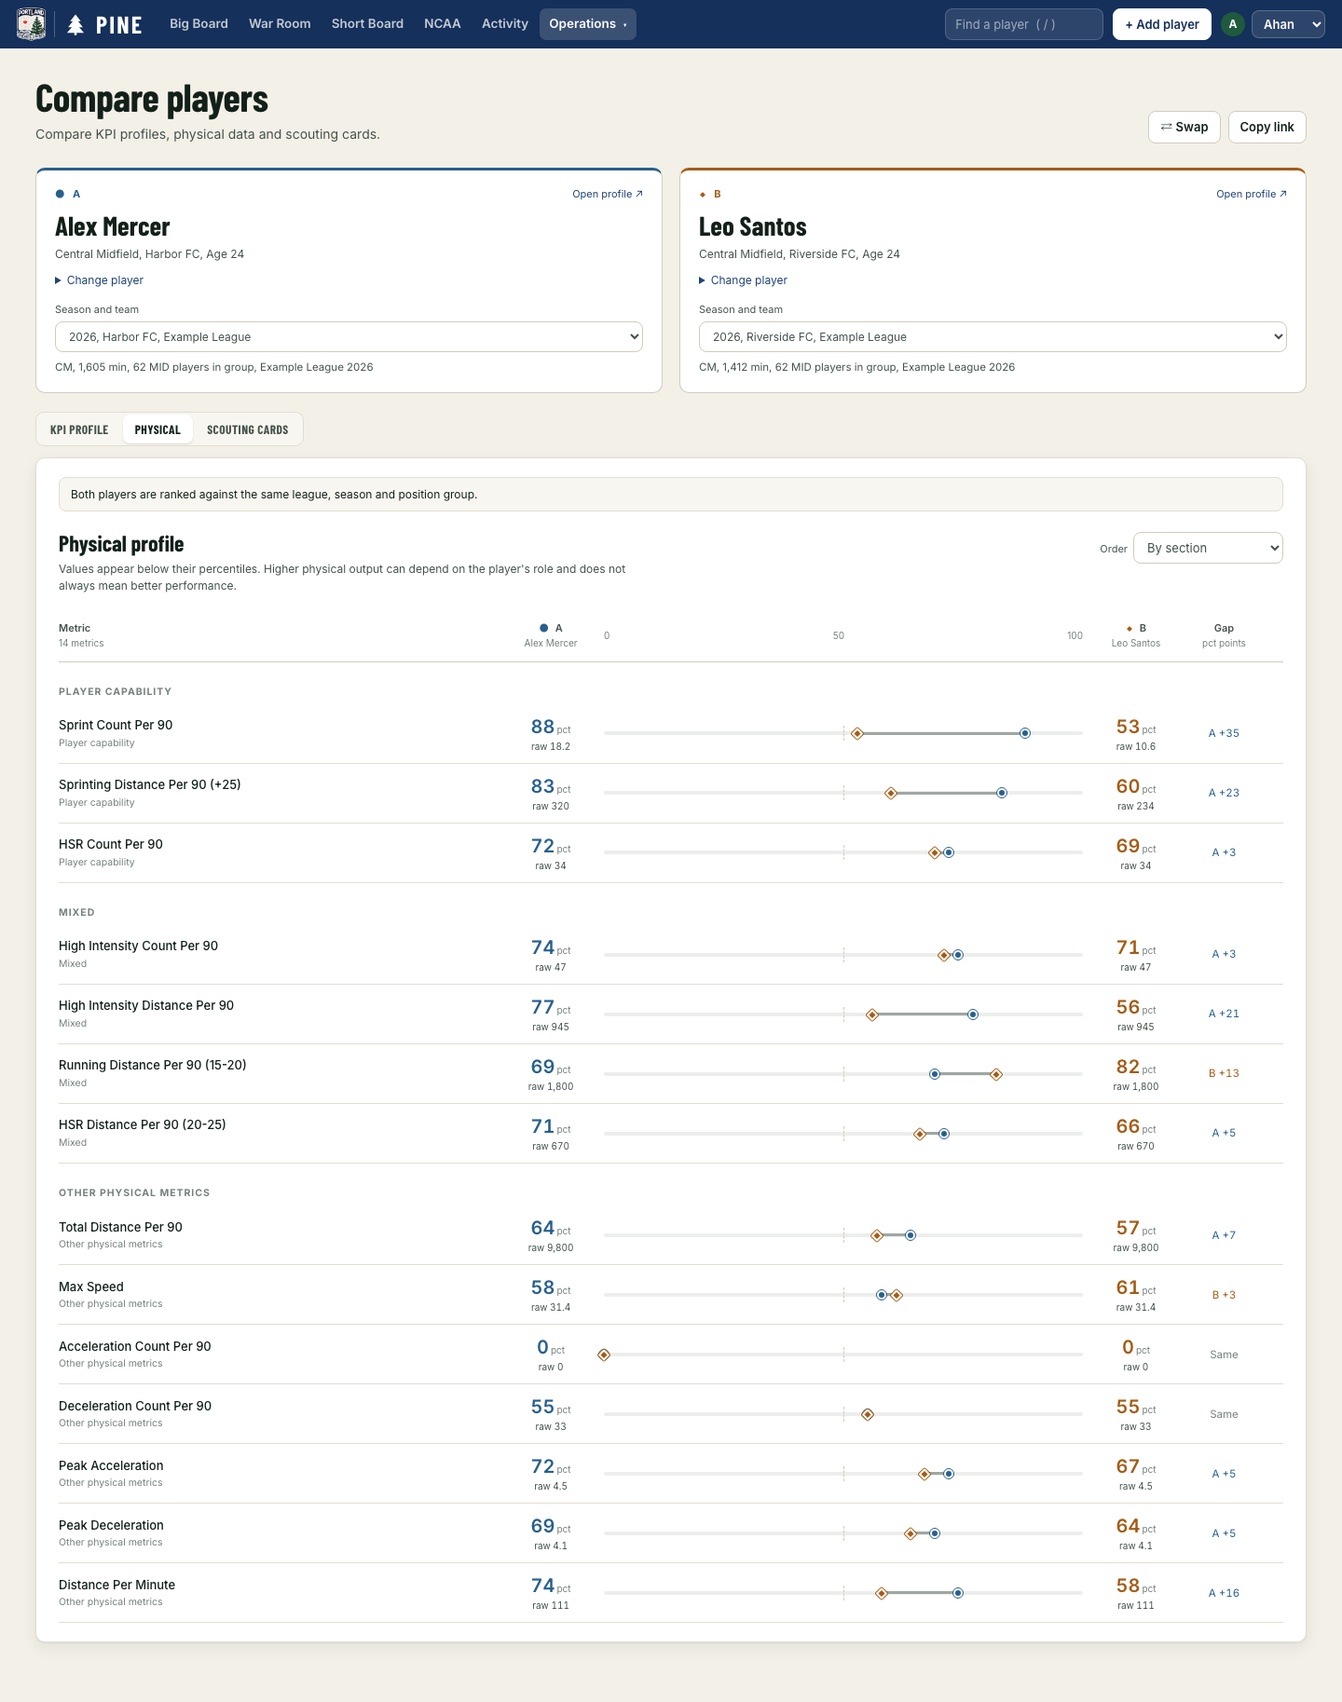
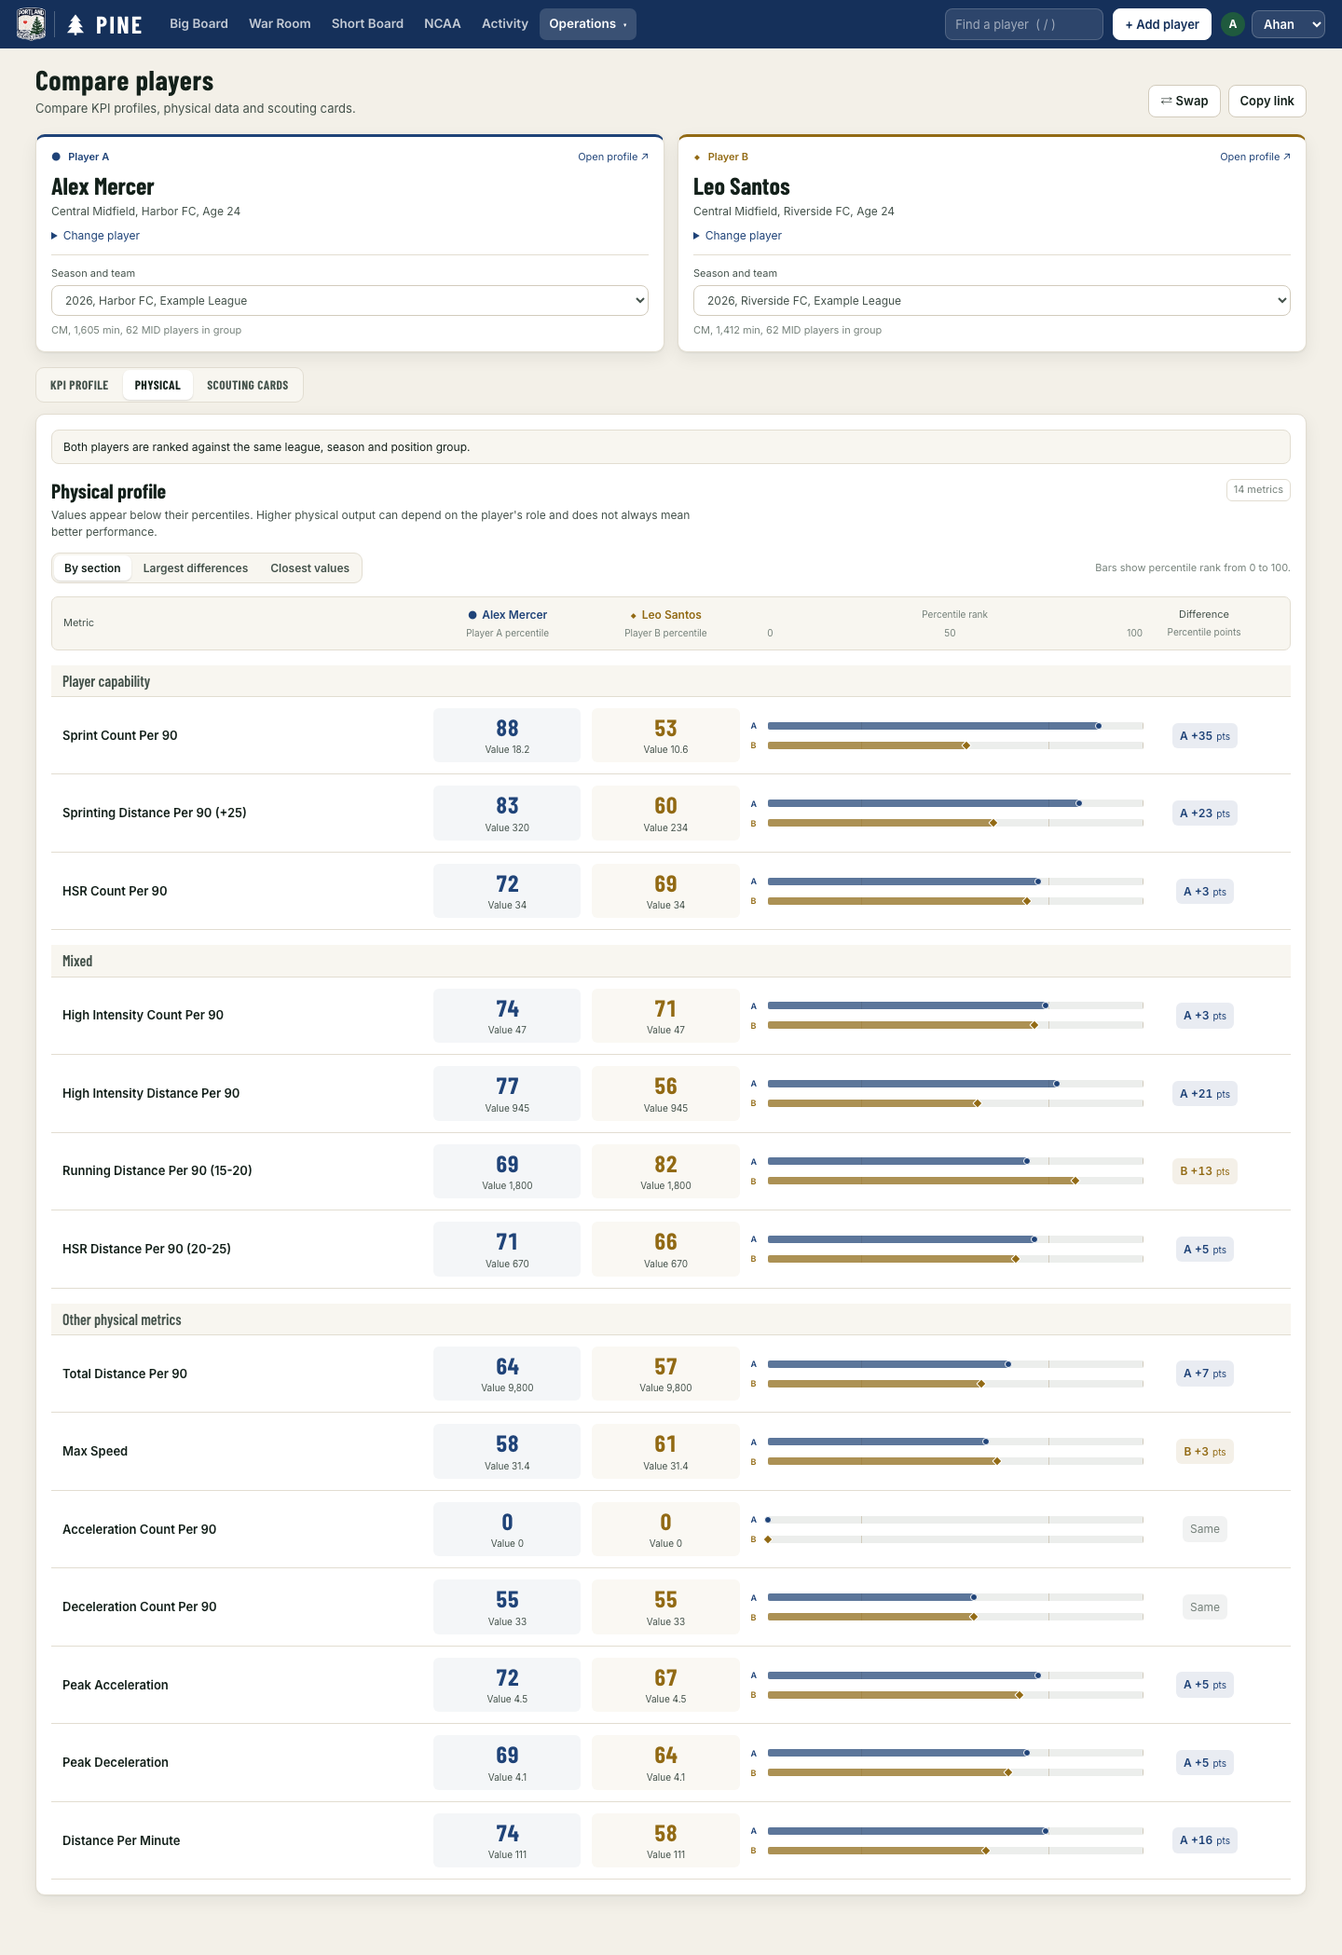
Clarify player comparisons and match Pine styles

diff --git a/public/styles.css b/public/styles.css
@@ -1169,21 +1169,21 @@ details[open] > summary .kpi-chev { transform: rotate(45deg); }
   .al-reading { font-size: 13px; }
 }
 
-/* Two-player comparisons. Player identity uses both color and marker shape. */
-.cmp-page { --cmp-a: #28608D; --cmp-b: #A45C16; max-width: 1400px; }
-@media (prefers-color-scheme: dark) { .cmp-page { --cmp-a: #80B9E8; --cmp-b: #F2B669; } }
+/* Two-player comparisons use Pine's panels, tabs and controls. Color and shape identify each player. */
+.cmp-page { --cmp-a: var(--accent); --cmp-b: color-mix(in srgb, var(--hold) 70%, var(--ink)); max-width: 1400px; }
+@media (prefers-color-scheme: dark) { .cmp-page { --cmp-b: var(--hold); } }
 .cmp-0 { --cmp-color: var(--cmp-a); }
 .cmp-1 { --cmp-color: var(--cmp-b); }
-.cmp-heading { display: flex; justify-content: space-between; align-items: end; gap: 16px; margin: 12px 0 26px; }
-.cmp-heading h1 { font: 700 42px/1 var(--disp); letter-spacing: -.01em; }
-.cmp-heading p { color: var(--ink-2); margin: 10px 0 0; }
-.cmp-players { display: grid; grid-template-columns: repeat(2, minmax(0, 1fr)); gap: 18px; }
-.cmp-player { position: relative; border: 1px solid var(--line-2); border-top: 3px solid var(--cmp-color); border-radius: 10px; padding: 18px 20px; background: var(--surface); min-width: 0; }
-.cmp-player-top { display: flex; justify-content: space-between; align-items: center; gap: 8px; margin-bottom: 9px; font-size: 11px; }
-.cmp-letter { font-weight: 700; letter-spacing: .08em; color: var(--cmp-color); }
-.cmp-symbol { color: var(--cmp-color); margin-right: 4px; }
-.cmp-player h2 { font: 700 29px/1.1 var(--disp); overflow-wrap: anywhere; }
-.cmp-player > p { color: var(--ink-2); margin: 6px 0 10px; font-size: 12px; }
+.cmp-heading { justify-content: space-between; margin-bottom: 18px; }
+.cmp-heading p { color: var(--ink-2); margin: 7px 0 0; font-size: 13px; }
+.cmp-players { display: grid; grid-template-columns: repeat(2, minmax(0, 1fr)); gap: 14px; }
+.cmp-player { position: relative; border-top: 3px solid var(--cmp-color); padding: 14px 16px; min-width: 0; }
+.cmp-player + .cmp-player { margin-top: 0; }
+.cmp-player-top { display: flex; justify-content: space-between; align-items: center; gap: 8px; margin-bottom: 8px; font-size: 11px; }
+.cmp-letter { font-weight: 600; color: var(--cmp-color); }
+.cmp-symbol { color: var(--cmp-color); margin-right: 5px; }
+.cmp-player h2 { font: 700 26px/1.1 var(--disp); overflow-wrap: anywhere; }
+.cmp-player > p { color: var(--ink-2); margin: 5px 0 8px; font-size: 12px; }
 .cmp-search > summary { cursor: pointer; color: var(--accent); font-size: 12px; width: fit-content; }
 .cmp-search[open] { padding-top: 4px; }
 .cmp-search input { width: 100%; margin-top: 10px; }
@@ -1192,58 +1192,75 @@ details[open] > summary .kpi-chev { transform: rotate(45deg); }
 .cmp-results button:last-child { border-bottom: 0; }
 .cmp-results button:hover, .cmp-results button:focus { background: var(--surface-2); }
 .cmp-results small { display: block; color: var(--muted); margin-top: 1px; }
-.cmp-context { margin-top: 16px; display: grid; grid-template-columns: minmax(0, 1fr) minmax(0, 1fr); gap: 8px 10px; }
+.cmp-context { margin-top: 12px; padding-top: 12px; border-top: 1px solid var(--line); display: grid; grid-template-columns: minmax(0, 1fr) minmax(0, 1fr); gap: 8px 10px; }
 .cmp-context:empty { display: none; }
 .cmp-context label { min-width: 0; font-size: 11px; color: var(--ink-2); }
 .cmp-context label > span { display: block; margin: 0 0 4px; }
 .cmp-context select { width: 100%; font-size: 12px; }
-.cmp-context p { grid-column: 1 / -1; font-size: 11.5px; margin: 0; color: var(--ink-2); }
+.cmp-context > label:only-of-type { grid-column: 1 / -1; }
+.cmp-context p { grid-column: 1 / -1; font-size: 11px; margin: 0; color: var(--muted); }
 .cmp-context .cmp-warning { color: var(--ink); border-left: 2px solid var(--hold); padding-left: 8px; }
-.cmp-nav { display: flex; align-items: center; justify-content: space-between; gap: 10px; margin: 20px 0 12px; }
-.cmp-body { padding: 20px 24px; }
-.cmp-benchmark { margin-top: 0; font-size: 12px; }
-.cmp-table-toolbar { display: flex; align-items: start; justify-content: space-between; gap: 14px; margin: 22px 0; }
-.cmp-table-toolbar h2 { font: 700 24px/1 var(--disp); }
-.cmp-table-toolbar p { color: var(--ink-2); font-size: 12px; max-width: 650px; margin: 7px 0 0; }
-.cmp-sort { flex: none; font-size: 11px; color: var(--ink-2); }
-.cmp-sort span { margin-right: 6px; }
-.cmp-row { display: grid; grid-template-columns: minmax(180px, 1.1fr) 86px minmax(140px, 1.2fr) 86px 75px 12px; gap: 14px; align-items: center; }
-.cmp-columns { position: sticky; top: 64px; z-index: 3; background: var(--surface); border-bottom: 1px solid var(--line-2); padding: 8px 0 12px; color: var(--ink-2); font-size: 11px; font-weight: 600; }
-.cmp-columns small { display: block; font-size: 10px; font-weight: 400; color: var(--muted); }
-.cmp-columns > span:nth-child(2), .cmp-columns > span:nth-child(4), .cmp-columns > span:nth-child(5) { text-align: center; }
-.cmp-axis { display: flex; justify-content: space-between; font-size: 10px; font-weight: 400; color: var(--muted); }
-.cmp-section { font-size: 10.5px; text-transform: uppercase; letter-spacing: .09em; color: var(--muted); margin: 24px 0 6px; }
+.cmp-nav { display: flex; align-items: center; justify-content: space-between; gap: 10px; margin: 16px 0 12px; }
+.cmp-body { padding: 16px; }
+.cmp-benchmark { margin: 0 0 16px; font-size: 12px; }
+.cmp-table-toolbar { display: flex; align-items: start; justify-content: space-between; gap: 14px; margin: 0 0 14px; }
+.cmp-table-toolbar h2 { font: 700 22px/1.1 var(--disp); }
+.cmp-table-toolbar p { color: var(--ink-2); font-size: 12px; max-width: 690px; margin: 6px 0 0; }
+.cmp-count { flex: none; border: 1px solid var(--line); border-radius: 6px; color: var(--muted); font-size: 11px; padding: 3px 7px; }
+.cmp-table-controls { display: flex; align-items: center; justify-content: space-between; gap: 12px; flex-wrap: wrap; margin-bottom: 14px; }
+.cmp-sort button { font-size: 12px; }
+.cmp-sort button:disabled { opacity: .45; cursor: default; }
+.cmp-help { color: var(--muted); font-size: 11px; }
+.cmp-row { display: grid; grid-template-columns: minmax(165px, 1.1fr) minmax(90px, .45fr) minmax(90px, .45fr) minmax(180px, 1.2fr) 108px 14px; gap: 12px; align-items: center; }
+.cmp-columns { position: sticky; top: var(--cmp-top, 54px); z-index: 3; background: var(--surface-2); border: 1px solid var(--line); border-radius: 7px; padding: 10px 12px; font-size: 11px; color: var(--ink-2); }
+.cmp-columns small { display: block; font-size: 10px; font-weight: 400; color: var(--muted); margin-top: 3px; }
+.cmp-column-player { min-width: 0; text-align: center; color: var(--cmp-color); }
+.cmp-column-player b { font-size: 12px; font-weight: 600; overflow-wrap: anywhere; }
+.cmp-column-gap { text-align: center; }
+.cmp-axis { font-size: 10px; color: var(--muted); margin-left: 18px; }
+.cmp-axis > span:first-child { display: block; text-align: center; margin-bottom: 5px; }
+.cmp-ticks { display: flex; justify-content: space-between; }
+.cmp-section { font: 600 16px/1.2 var(--disp); color: var(--ink-2); background: var(--surface-2); padding: 7px 12px; margin: 16px 0 0; border-bottom: 1px solid var(--line); }
 .cmp-item { border-bottom: 1px solid var(--line); }
-.cmp-item > summary, .cmp-item.cmp-row { padding: 12px 0; }
+.cmp-item > summary, .cmp-item.cmp-row { padding: 12px; }
 .cmp-item > summary { list-style: none; cursor: pointer; }
 .cmp-item > summary::-webkit-details-marker { display: none; }
-.cmp-item > summary:hover { background: var(--surface-2); }
+.cmp-item > summary:hover, .cmp-item[open] > summary { background: var(--surface-2); }
 .cmp-metric { min-width: 0; font-size: 13px; }
-.cmp-metric b { font-weight: 500; }
+.cmp-metric b { font-weight: 600; }
 .cmp-metric small { display: block; color: var(--muted); font-size: 10.5px; line-height: 1.4; margin-top: 3px; }
-.cmp-value { display: block; font-size: 20px; color: var(--cmp-color); font-weight: 600; line-height: 1.2; font-variant-numeric: tabular-nums; text-align: center; }
-.cmp-value small { display: block; font-size: 10px; color: var(--ink-2); font-weight: 400; margin-top: 3px; }
-.cmp-value > .cmp-pct-unit { display: inline; color: var(--muted); margin-left: 2px; }
-.cmp-na { font-size: 10px; color: var(--muted); font-weight: 400; }
-.cmp-track { display: block; position: relative; height: 4px; background: var(--none-bg); border-radius: 3px; margin: 14px 0; }
-.cmp-mid { position: absolute; left: 50%; top: -6px; height: 16px; border-left: 1px dashed var(--line-2); }
-.cmp-bridge { position: absolute; height: 3px; background: var(--muted); opacity: .65; top: .5px; }
-.cmp-dot { position: absolute; width: 10px; height: 10px; top: -3px; background: var(--cmp-color); border: 2px solid var(--surface); border-radius: 50%; transform: translateX(-50%); outline: 1px solid var(--cmp-color); z-index: 2; }
-.cmp-dot.cmp-1 { border-radius: 1px; transform: translateX(-50%) rotate(45deg); top: -2px; width: 9px; height: 9px; }
-.cmp-range { position: absolute; top: -8px; height: 20px; background: var(--cmp-color); opacity: .12; border-radius: 4px; }
-.cmp-gap { font-size: 11.5px; color: var(--cmp-color, var(--muted)); font-variant-numeric: tabular-nums; text-align: center; white-space: nowrap; }
-.cmp-chevron { color: var(--muted); font-size: 14px; }
+.cmp-number { min-width: 0; border-radius: 6px; padding: 7px 4px; background: color-mix(in srgb, var(--cmp-color) 5%, var(--surface)); }
+.cmp-number-label { display: none; }
+.cmp-value { display: block; font: 700 25px/1.1 var(--disp); color: var(--cmp-color); font-variant-numeric: tabular-nums; text-align: center; }
+.cmp-value small { display: block; font: 400 10px/1.4 var(--body); color: var(--ink-2); margin-top: 3px; }
+.cmp-na { font: 400 11px var(--body); color: var(--muted); }
+.cmp-chart { display: grid; gap: 8px; padding: 4px 0; min-width: 0; }
+.cmp-bar { display: flex; gap: 8px; align-items: center; min-width: 0; }
+.cmp-bar-missing .cmp-track { background: none; border-bottom: 1px dashed var(--line-2); }
+.cmp-bar-empty { display: block; font: 400 9px/1 var(--body); color: var(--muted); text-align: center; transform: translateY(-2px); }
+.cmp-bar-label { width: 10px; flex: none; color: var(--cmp-color); font-size: 9px; font-weight: 600; }
+.cmp-track { display: block; position: relative; height: 8px; flex: 1; border-radius: 2px; background: repeating-linear-gradient(to right, transparent 0, transparent calc(25% - 1px), var(--line-2) calc(25% - 1px), var(--line-2) 25%), var(--none-bg); }
+.cmp-fill { position: absolute; left: 0; top: 0; height: 100%; border-radius: 2px; background: var(--cmp-color); opacity: .7; }
+.cmp-dot { position: absolute; width: 8px; height: 8px; top: 0; background: var(--cmp-color); border: 1px solid var(--surface); border-radius: 50%; transform: translateX(-50%); z-index: 2; }
+.cmp-dot.cmp-1 { border-radius: 1px; transform: translateX(-50%) rotate(45deg); }
+.cmp-range { position: absolute; top: -3px; height: 14px; border: 1px solid var(--cmp-color); background: color-mix(in srgb, var(--cmp-color) 15%, transparent); border-radius: 3px; }
+.cmp-gap { justify-self: center; display: inline-flex; align-items: baseline; gap: 4px; border-radius: 6px; padding: 5px 8px; color: var(--cmp-color, var(--muted)); background: color-mix(in srgb, var(--cmp-color, var(--muted)) 10%, var(--surface)); font-size: 12px; font-variant-numeric: tabular-nums; white-space: nowrap; }
+.cmp-gap b { font-weight: 600; }
+.cmp-gap small { font-size: 10px; }
+.cmp-chevron { color: var(--muted); font-size: 14px; text-align: center; }
 .cmp-item[open] > summary .cmp-chevron { transform: rotate(180deg); }
-.cmp-detail { padding: 12px 14px; border: 1px solid var(--line); border-radius: 8px; background: var(--surface-2); margin-bottom: 12px; }
-.cmp-detail > p { margin: 0 0 10px; font-size: 12px; }
-.cmp-detail .cmp-dot { border-color: var(--surface-2); }
+.cmp-detail { padding: 12px 0 0; background: var(--surface-2); border-top: 1px solid var(--line); margin-bottom: 12px; }
+.cmp-detail > p { margin: 0 12px 10px; font-size: 12px; }
 .cmp-detail .cmp-metric b { font-size: 12px; }
-.cmp-empty { text-align: center; padding: 45px 10px; color: var(--ink-2); }
-.cmp-empty > span { font-size: 36px; color: var(--muted); display: block; margin: 0 0 18px; }
-.cmp-empty h2 { font: 600 26px/1.2 var(--disp); color: var(--ink); }
+.cmp-detail .cmp-value { font-size: 22px; }
+.cmp-detail .cmp-row:last-child { border-bottom: 0; }
+.cmp-empty { text-align: center; padding: 36px 10px; color: var(--ink-2); }
+.cmp-empty > span { font-size: 30px; color: var(--muted); display: block; margin: 0 0 18px; }
+.cmp-empty h2 { font: 600 24px/1.2 var(--disp); color: var(--ink); }
 .cmp-empty p { margin-bottom: 0; }
-.cmp-card-viewer { --cmp-zoom: 100%; border-top: 1px solid var(--line-2); margin-top: 26px; }
-.cmp-card-pair { display: grid; grid-template-columns: repeat(2, minmax(0, 1fr)); gap: 18px; }
+.cmp-card-viewer { --cmp-zoom: 100%; border-top: 1px solid var(--line-2); padding-top: 18px; margin-top: 22px; }
+.cmp-body > .cmp-card-viewer:first-child { margin-top: 0; padding-top: 0; border-top: 0; }
+.cmp-card-pair { display: grid; grid-template-columns: repeat(2, minmax(0, 1fr)); gap: 14px; }
 .cmp-card-caption { display: flex; align-items: center; gap: 5px; margin-bottom: 10px; font-size: 12px; }
 .cmp-card-caption a { margin-left: auto; font-size: 11px; }
 .cmp-card-scroll { overflow: auto; height: 400px; border: 1px solid var(--line-2); border-radius: 8px; background: var(--surface-2); }
@@ -1254,50 +1271,49 @@ details[open] > summary .kpi-chev { transform: rotate(45deg); }
 .cmp-card-flip button[aria-pressed=true] { border-color: var(--cmp-color); color: var(--cmp-color); }
 .cmp-flip-mode .cmp-card-pair { grid-template-columns: minmax(0, 1fr); }
 .cmp-flip-mode .cmp-card-scroll { height: 650px; }
-@media (max-width: 850px) {
-  .cmp-row { grid-template-columns: minmax(130px, 1fr) 60px minmax(80px, 1fr) 60px 62px 10px; gap: 10px; }
+@media (max-width: 1000px) {
+  .cmp-row { grid-template-columns: minmax(135px, 1fr) 68px 68px minmax(115px, 1fr) 86px 12px; gap: 10px; }
   .cmp-context { grid-template-columns: minmax(0, 1fr); }
-  .cmp-body { padding: 16px; }
+  .cmp-body { padding: 14px; }
 }
-@media (max-width: 600px) {
+@media (max-width: 700px) {
   .cmp-page { padding: 16px 12px 48px; }
-  .cmp-heading { align-items: start; margin: 4px 0 18px; flex-wrap: wrap; }
-  .cmp-heading h1 { font-size: 36px; }
+  .cmp-heading { align-items: start; gap: 12px; }
   .cmp-heading p { font-size: 12px; }
-  .cmp-players { gap: 8px; }
-  .cmp-player { padding: 12px 10px; }
-  .cmp-player h2 { font-size: 23px; }
-  .cmp-player-top { font-size: 10px; gap: 2px; }
-  .cmp-player > p { font-size: 11px; min-height: 32px; }
+  .cmp-players { grid-template-columns: minmax(0, 1fr); gap: 10px; }
+  .cmp-player { padding: 12px; }
+  .cmp-player h2 { font-size: 24px; }
+  .cmp-context { grid-template-columns: minmax(0, 1fr) minmax(0, 1fr); margin-top: 10px; padding-top: 10px; }
   .cmp-context p { font-size: 10.5px; }
-  .cmp-nav { align-items: start; flex-direction: column; margin-top: 16px; }
+  .cmp-nav { align-items: start; flex-direction: column; margin-top: 14px; }
   .cmp-nav .an-tabs { width: 100%; display: flex; }
   .cmp-nav .an-tabs button { flex: 1; padding: 7px 4px; font-size: 12px; }
-  .cmp-body { padding: 12px 10px; }
-  .cmp-table-toolbar { flex-wrap: wrap; margin: 18px 0 12px; }
-  .cmp-table-toolbar h2 { font-size: 23px; }
-  .cmp-sort { width: 100%; display: flex; align-items: center; justify-content: space-between; }
-  .cmp-sort select { max-width: 70%; }
-  .cmp-row { grid-template-columns: 48px minmax(40px, 1fr) 48px 57px 10px; gap: 8px; }
-  .cmp-metric, .cmp-columns > span:first-child { grid-column: 1 / -1; }
-  .cmp-columns { position: static; row-gap: 6px; }
-  .cmp-columns > span:first-child small { display: inline; margin-left: 5px; }
-  .cmp-number { min-width: 0; }
-  .cmp-metric b { font-size: 12px; }
-  .cmp-value { font-size: 18px; }
-  .cmp-value small { font-size: 9px; }
-  .cmp-gap { font-size: 10.5px; }
-  .cmp-detail { padding: 10px 8px; }
-  .cmp-detail .cmp-row { grid-template-columns: 42px minmax(30px, 1fr) 42px 52px 8px; gap: 6px; }
-  .cmp-section { margin-top: 18px; }
+  .cmp-body { padding: 12px; }
+  .cmp-table-toolbar { gap: 8px; }
+  .cmp-table-toolbar h2 { font-size: 22px; }
+  .cmp-table-controls { gap: 8px; }
+  .cmp-sort { width: 100%; display: flex; }
+  .cmp-sort button { flex: 1; padding: 7px 4px; font-size: 11px; }
+  .cmp-row { position: relative; grid-template-columns: repeat(2, minmax(0, 1fr)); gap: 10px; }
+  .cmp-columns { position: sticky; row-gap: 8px; padding: 10px; }
+  .cmp-columns > span:first-child, .cmp-column-gap, .cmp-columns > span:last-child { display: none; }
+  .cmp-column-player { grid-row: 1; }
+  .cmp-axis { grid-column: 1 / -1; margin-left: 18px; }
+  .cmp-axis > span:first-child { display: none; }
+  .cmp-item > summary, .cmp-item.cmp-row { padding: 14px 8px; }
+  .cmp-metric { grid-column: 1 / -1; padding-right: 98px; min-height: 26px; }
+  .cmp-number.cmp-0 { grid-column: 1; grid-row: 2; }
+  .cmp-number.cmp-1 { grid-column: 2; grid-row: 2; }
+  .cmp-number-label { display: block; font-size: 10px; text-align: center; color: var(--cmp-color); margin-bottom: 3px; }
+  .cmp-chart { grid-column: 1 / -1; grid-row: 3; }
+  .cmp-gap { position: absolute; right: 24px; top: 13px; font-size: 11px; padding: 4px 6px; }
+  .cmp-chevron { position: absolute; right: 5px; top: 14px; }
+  .cmp-section { margin-top: 14px; }
   .cmp-card-pair { gap: 8px; }
   .cmp-card-caption { flex-wrap: wrap; font-size: 11px; }
   .cmp-card-caption a { width: 100%; margin-left: 0; }
   .cmp-card-scroll { height: 230px; }
   .cmp-flip-mode .cmp-card-scroll { height: min(440px, 70vw); }
 }
-.cmp-column-name { overflow: hidden; text-overflow: ellipsis; white-space: nowrap; max-width: 100%; }
 
-.cmp-context > label:only-of-type { grid-column: 1 / -1; }
-
-.cmp-body > .cmp-card-viewer:first-child { margin-top: 0; border-top: 0; }
+@media (max-width: 450px) { .cmp-context { grid-template-columns: minmax(0, 1fr); } }

diff --git a/README.md b/README.md
@@ -398,8 +398,9 @@ syncs leave the signing status alone.
   Every version is kept and any signed-in staff member can open it. One card per player can be in progress, and at most 30 are
   requested across PINE per 24 hours.
 - **Compare players** (`#/compare`): open from Operations or **Compare with…** on a player profile.
-  Compare KPI profiles, physical data and saved scouting cards on the same rows and a shared scale from 0 to 100.
-  Sort by section, largest differences or closest values, and open KPI categories to see their metrics.
+  Compare KPI profiles, physical data and saved scouting cards with adjacent player values, paired bars on a shared scale from 0 to 100,
+  and badges showing the percentile difference. Use the buttons to sort by section, largest differences or closest values,
+  and open KPI categories to see their metrics. Player names stay visible as you scroll, and phone layouts keep player controls on separate rows.
   You can choose each player's season, position, physical data and saved card separately, and share your selections by copying the link.
   Percentile gaps and sorting by difference are unavailable when the comparison groups differ.
   The scouting table uses saved card data in render schema 16. You can also compare the original cards with linked zoom and scrolling,
